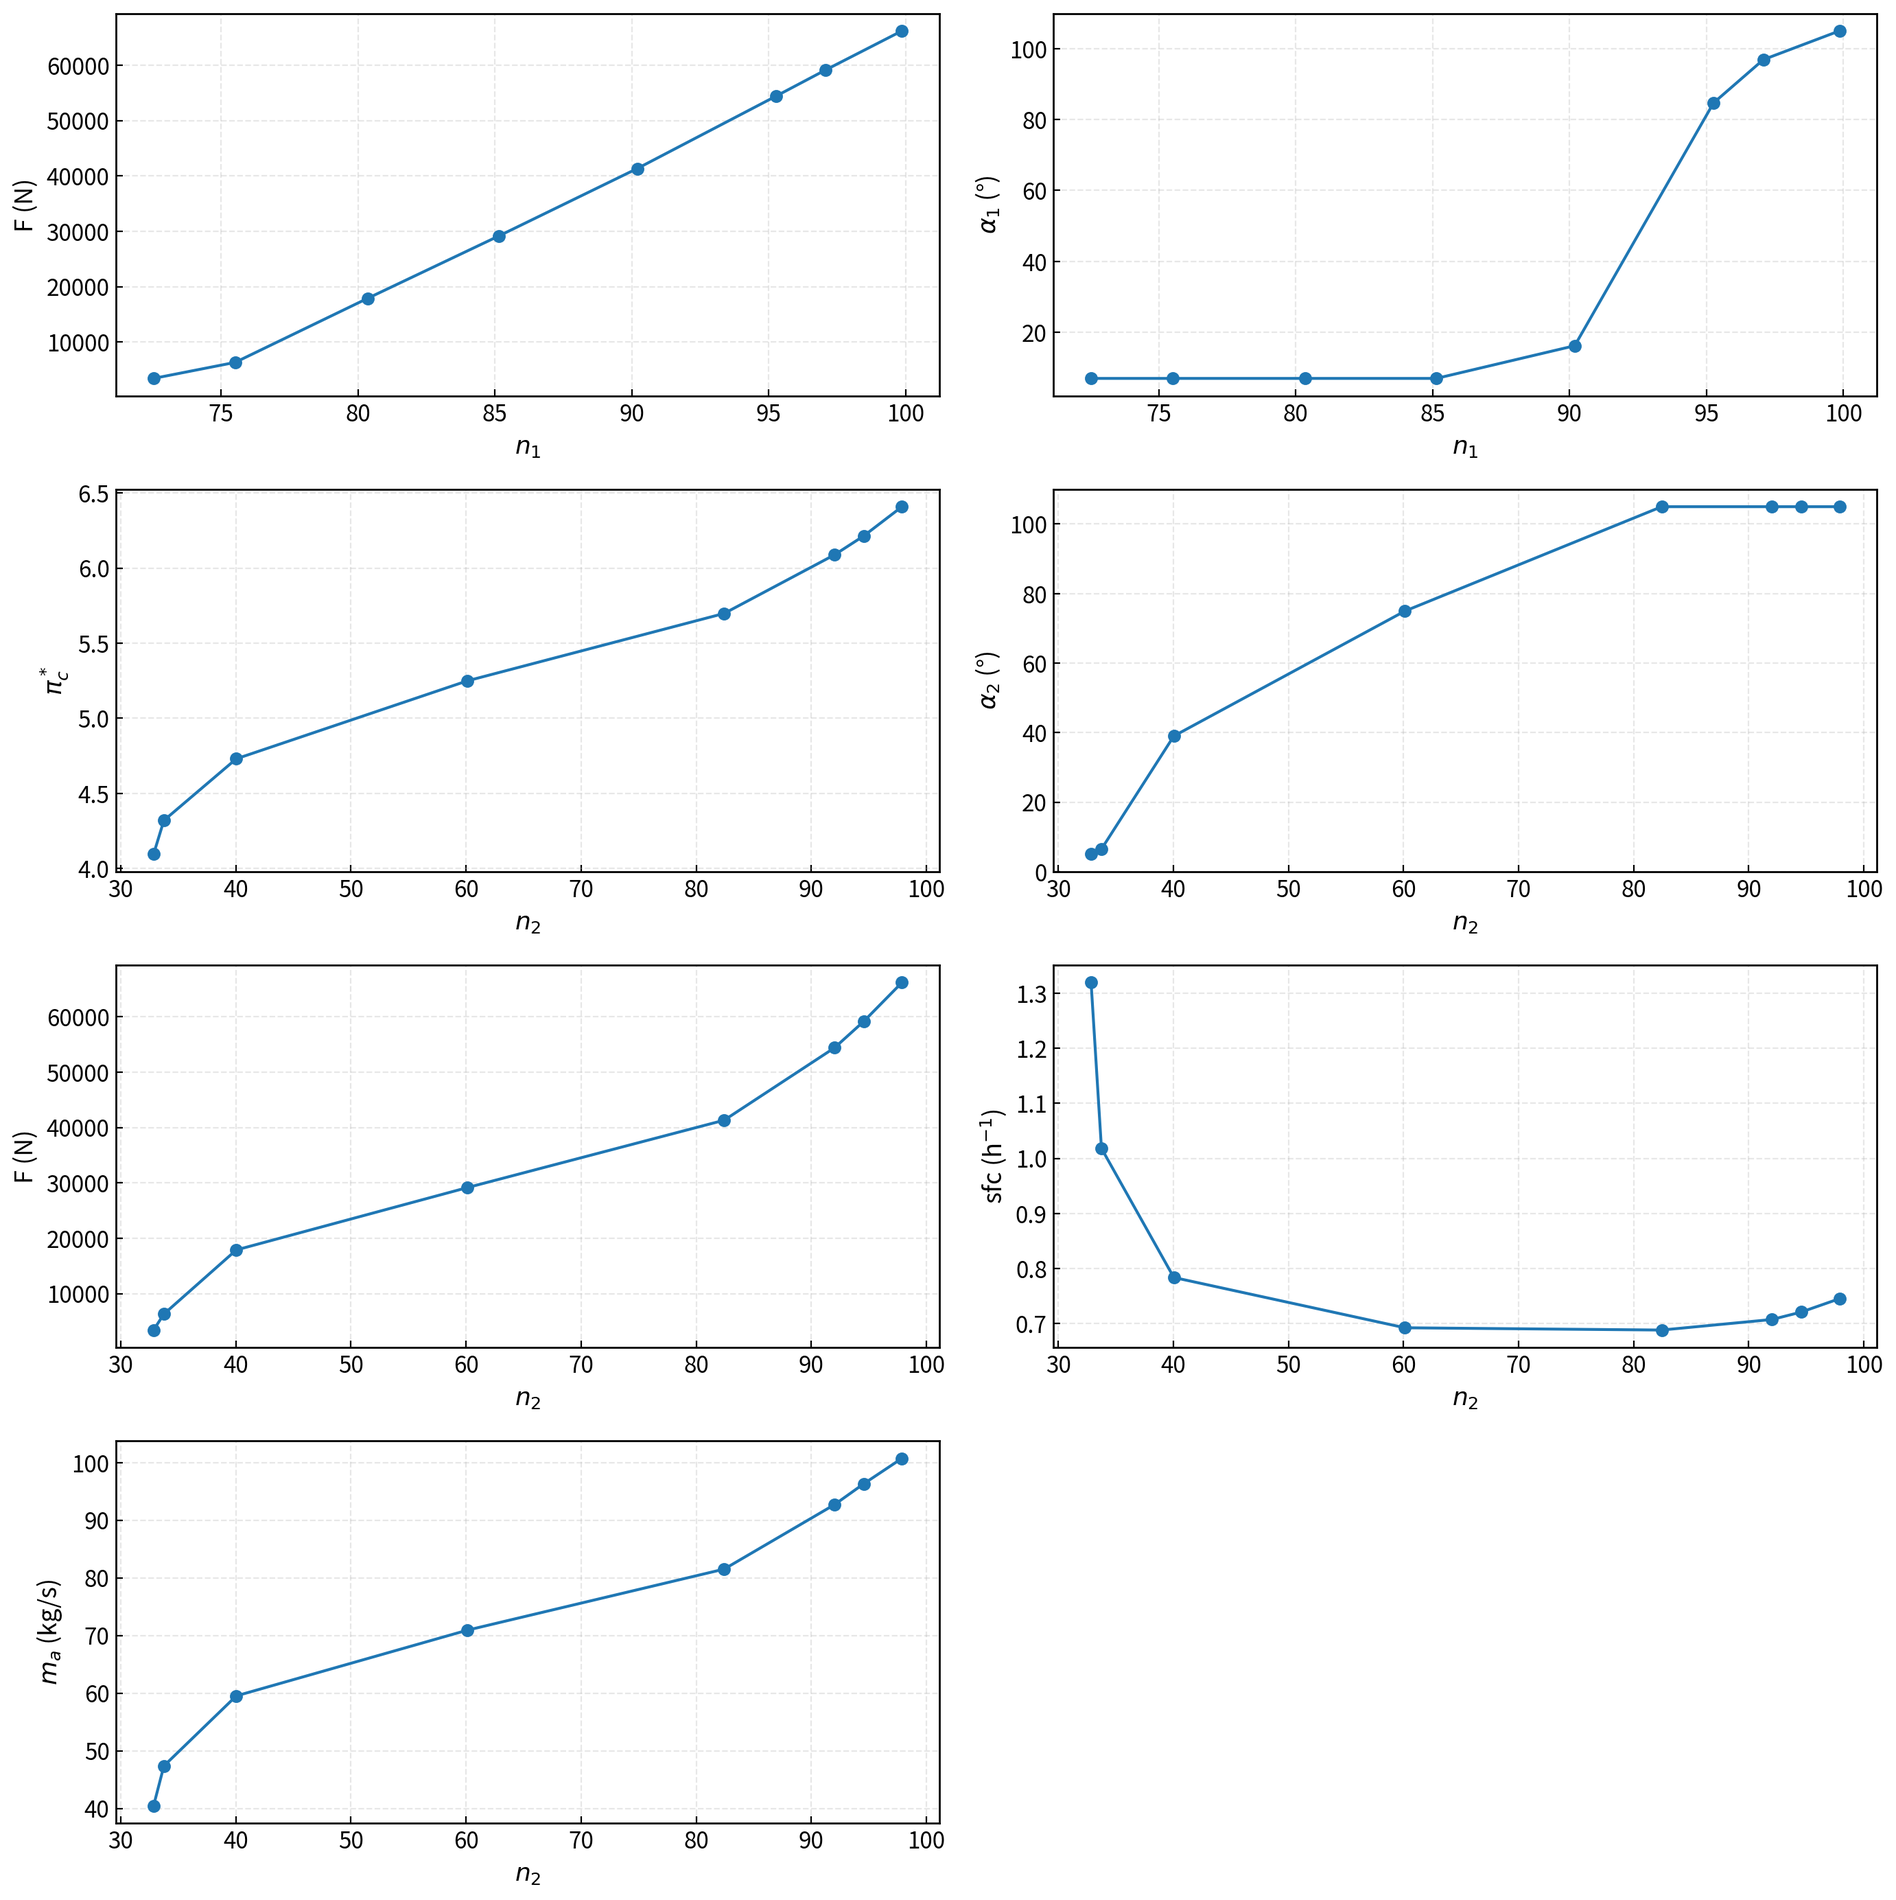
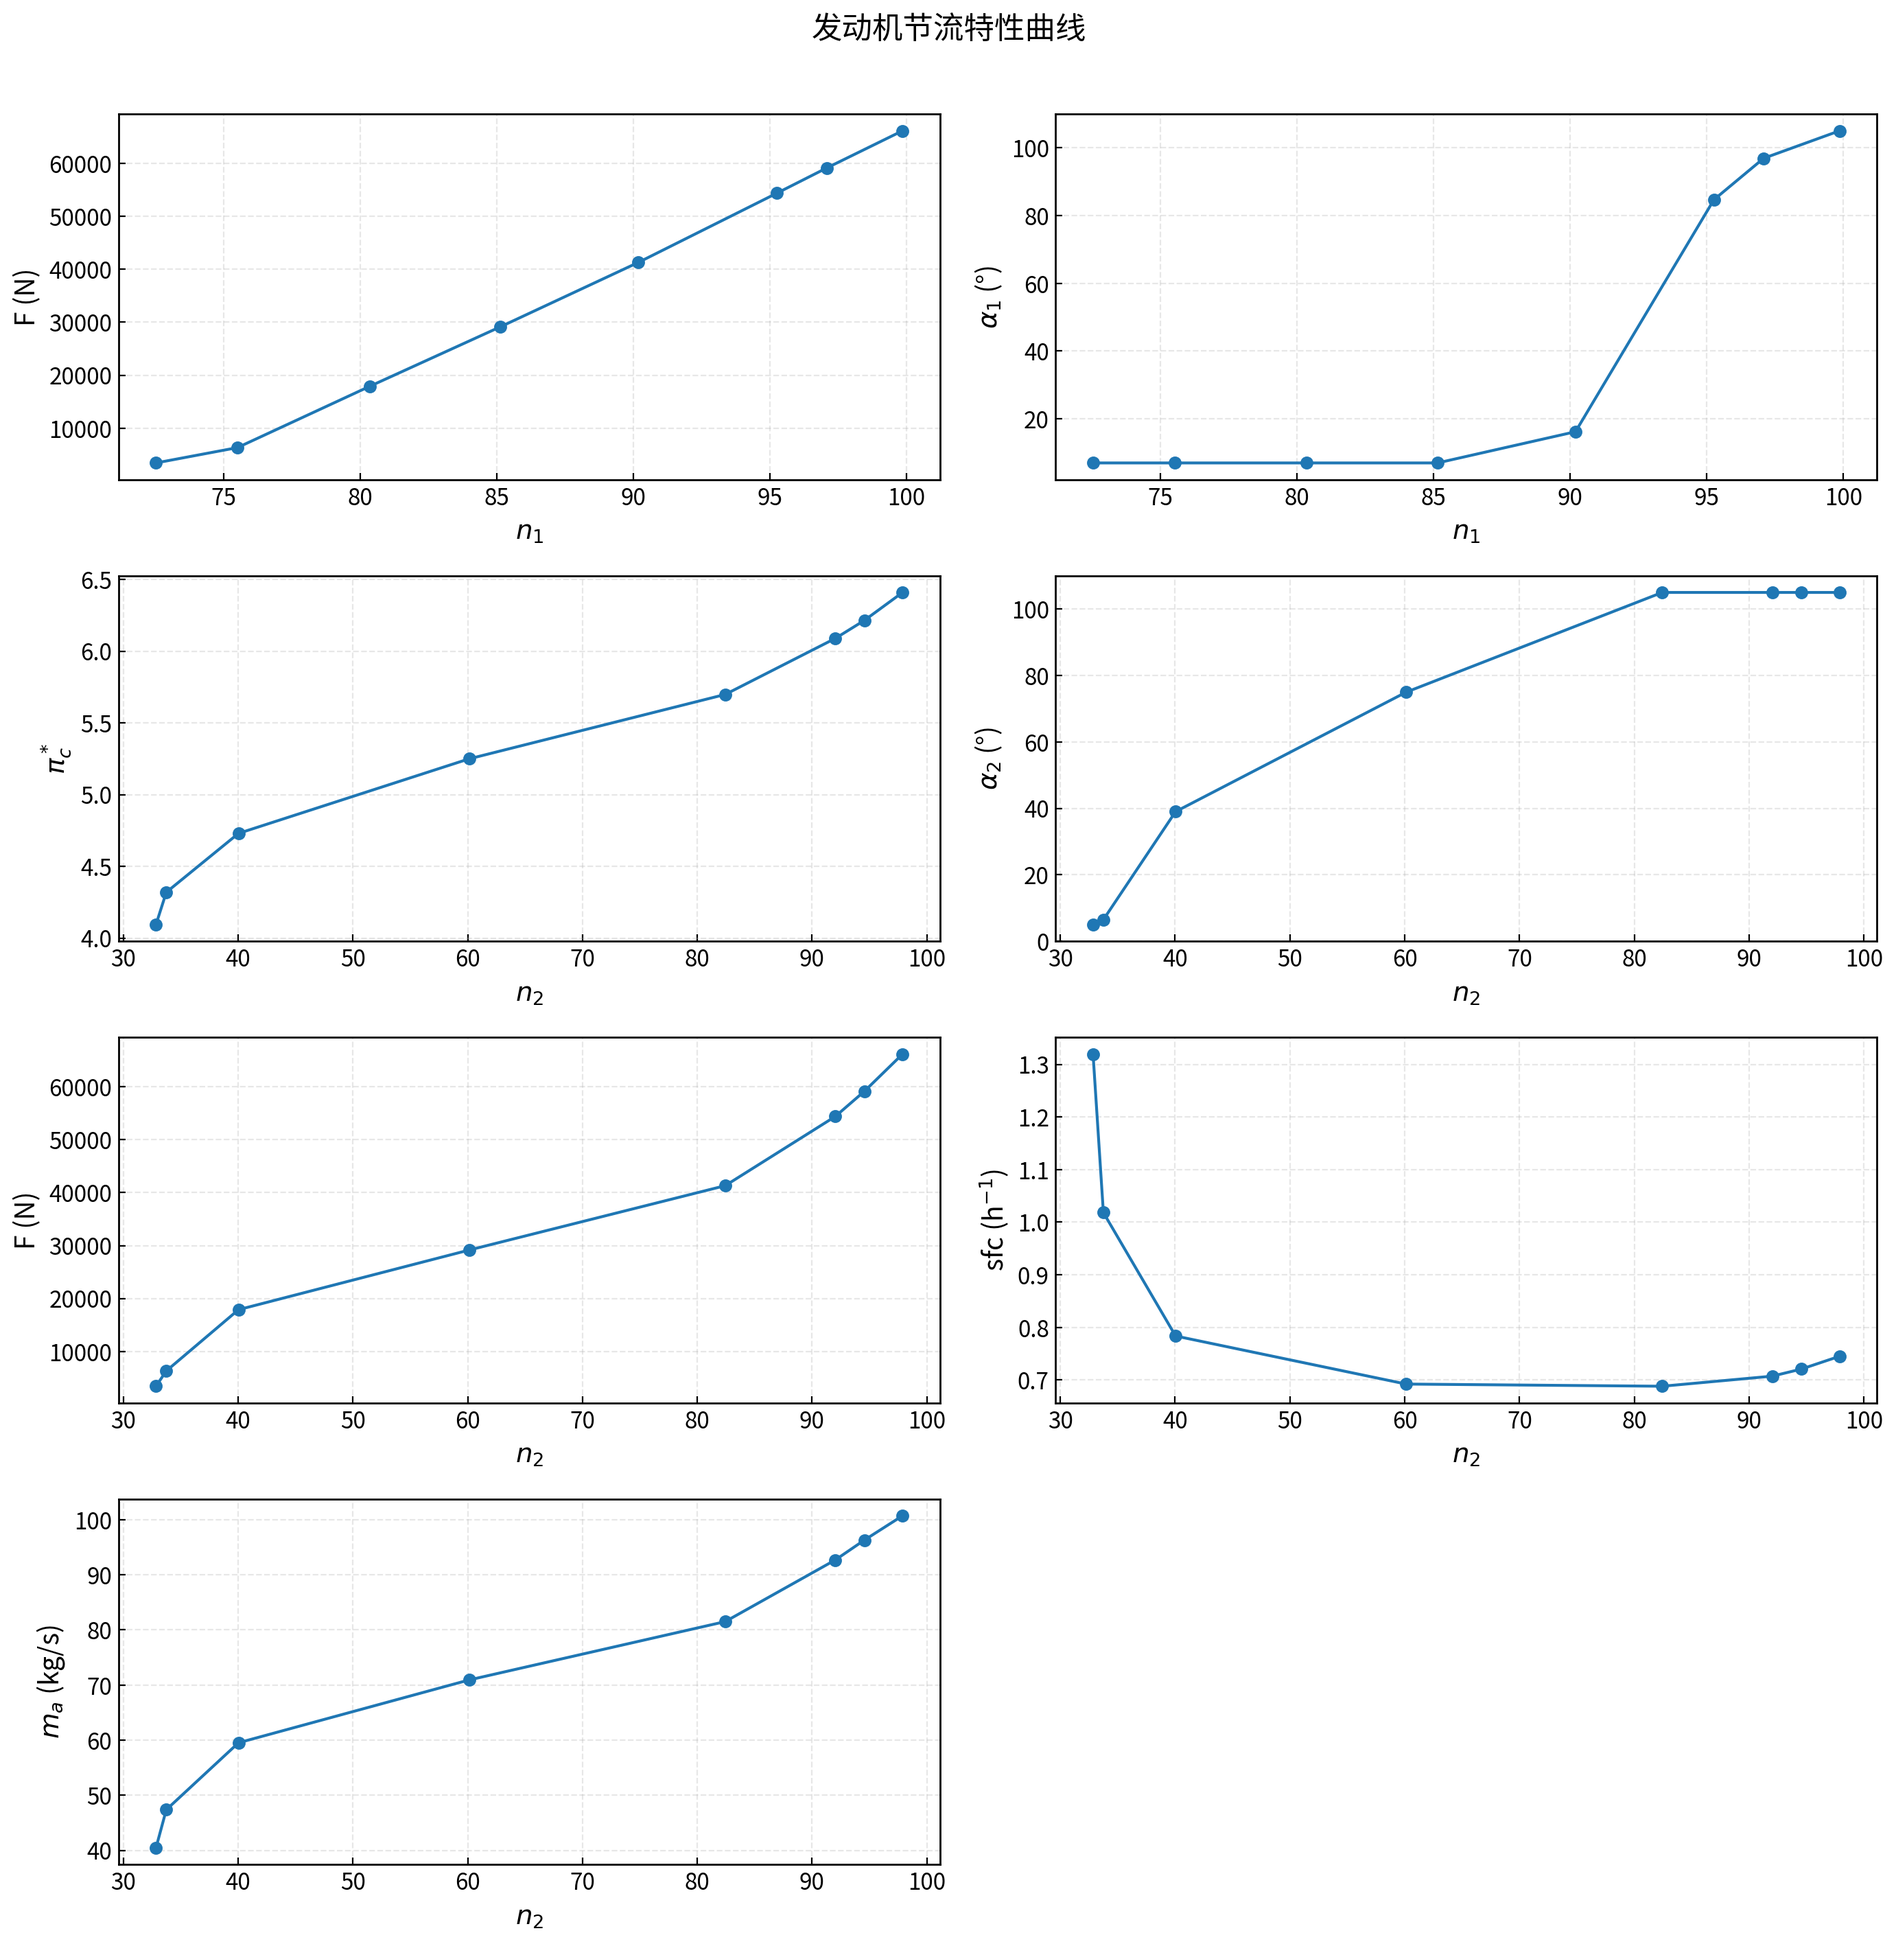
Revert "Remove suptitles, enlarge axis labels"
This reverts commit 384a6637fe8907782cef1b9a0e8b43c6221b4e70.

diff --git a/lab1/reports/tables/table_exp1_trial.tex b/lab1/reports/tables/table_exp1_trial.tex
@@ -4,23 +4,35 @@
   \label{tab:exp1_trial}
   \footnotesize
   \setlength{\tabcolsep}{3pt}
-  \begin{tabular}{cccccccccc}
-    \toprule
-    工作状态 & $n_1$ & $n_2$ & $F$(N) & $W_f$(kg/h) & $m_a$(kg/s) & $\pi_c^*$ & sfc(h$^{-1}$) & $\alpha_1$ & $\alpha_2$ \\
-    \midrule
-    慢车 & 72.5 & 32.9 & 3424 & 461 & 40.4 & 4.09 & 1.3195 & 7 & 5 \\
-    N2=75% & 75.5 & 33.8 & 6317 & 656 & 47.4 & 4.32 & 1.0183 & 7 & 6 \\
-    N2=80% & 80.3 & 40.0 & 17889 & 1429 & 59.5 & 4.73 & 0.7837 & 7 & 39 \\
-    N2=85% & 85.1 & 60.1 & 29148 & 2057 & 70.9 & 5.25 & 0.6924 & 7 & 75 \\
-    N2=90% & 90.2 & 82.4 & 41312 & 2898 & 81.5 & 5.70 & 0.6882 & 16 & 105 \\
-    N2=95% & 95.3 & 92.0 & 54391 & 3922 & 92.7 & 6.09 & 0.7074 & 85 & 105 \\
-    N2=97% & 97.1 & 94.5 & 59141 & 4346 & 96.3 & 6.21 & 0.7209 & 97 & 105 \\
-    最大 & 99.9 & 97.9 & 66177 & 5027 & 100.7 & 6.41 & 0.7452 & 105 & 105 \\
-    加力_a=0 & 83.2 & 97.9 & 79311 & 8182 & 100.8 & 6.41 & 1.0120 & 105 & 105 \\
-    加力_a=1 & 88.8 & 97.9 & 83930 & 9820 & 100.7 & 6.41 & 1.1478 & 105 & 105 \\
-    加力_a=2 & 99.6 & 97.9 & 94227 & 14103 & 100.7 & 6.41 & 1.4682 & 105 & 105 \\
-    加力_a=3 & 108.0 & 97.9 & 104091 & 18408 & 100.7 & 6.41 & 1.7349 & 105 & 105 \\
-    加力_a=4 & 114.7 & 97.9 & 113465 & 22462 & 100.7 & 6.41 & 1.9420 & 105 & 105 \\
-    \bottomrule
+  \begin{tabular}{|c|*{13}{c|}}
+    \hline
+    \diagbox[width=3.6cm, height=1.3cm]{工作状态}{\makecell{参数名称 \\ (单位)}} & $n_1$ & $P_0$ & $T_0$ & $F$ & $W_f$ & $m_a$ & $P_2^*$ & $T_2^*$ & $P_3^*$ & $T_3^*$ & $P_5^*$ & $\alpha_1$ & $\alpha_2$ \\
+    \hline
+    \makecell{慢车状态 \\ (N2=32.9\%)} & 72.5 & 94.04 & 22.91 & 349.06 & 460.6 & 40.4 & 104.58 & 27.53 & 428.18 & 259.76 & 96.07 & 7 & 5 \\
+    \hline
+    N2=75\% & 75.5 & 94.06 & 22.94 & 643.90 & 655.7 & 47.4 & 105.01 & 27.88 & 453.59 & 274.49 & 104.64 & 7 & 6 \\
+    \hline
+    N2=80\% & 80.3 & 94.12 & 22.93 & 1823.50 & 1429.1 & 59.5 & 108.00 & 30.15 & 510.83 & 314.39 & 135.96 & 7 & 39 \\
+    \hline
+    N2=85\% & 85.1 & 94.12 & 22.93 & 2971.30 & 2057.2 & 70.9 & 124.21 & 48.53 & 652.01 & 364.90 & 173.04 & 7 & 75 \\
+    \hline
+    N2=90\% & 90.2 & 94.12 & 22.94 & 4211.20 & 2898.3 & 81.5 & 207.28 & 113.83 & 1181.08 & 410.97 & 213.89 & 16 & 105 \\
+    \hline
+    N2=95\% & 95.3 & 94.03 & 22.92 & 5544.40 & 3922.2 & 92.7 & 276.07 & 152.46 & 1680.87 & 458.26 & 255.58 & 85 & 105 \\
+    \hline
+    N2=97\% & 97.1 & 94.07 & 22.92 & 6028.60 & 4345.9 & 96.3 & 295.59 & 161.12 & 1836.78 & 478.44 & 270.35 & 97 & 105 \\
+    \hline
+    \makecell{最大状态 \\ (N2=32.9\%)} & 99.9 & 94.08 & 22.92 & 6745.90 & 5027.0 & 100.7 & 317.72 & 171.34 & 2036.30 & 508.93 & 294.25 & 105 & 105 \\
+    \hline
+    \makecell{加力状态 \\ ($a_0=-1$)} & 83.2 & 94.12 & 22.91 & 8084.70 & 8182.0 & 100.8 & 317.81 & 171.30 & 2036.67 & 508.80 & 294.29 & 105 & 105 \\
+    \hline
+    \makecell{加力状态 \\ ($a_0=0$)} & 88.8 & 94.03 & 22.91 & 8555.60 & 9819.7 & 100.7 & 317.56 & 171.34 & 2035.36 & 508.96 & 294.14 & 105 & 105 \\
+    \hline
+    \makecell{加力状态 \\ ($a_0=1$)} & 99.6 & 94.07 & 22.92 & 9605.20 & 14102.6 & 100.7 & 317.72 & 171.36 & 2035.83 & 508.69 & 294.00 & 105 & 105 \\
+    \hline
+    \makecell{加力状态 \\ ($a_0=2$)} & 108.0 & 94.09 & 22.90 & 10610.70 & 18408.3 & 100.7 & 317.80 & 171.33 & 2036.39 & 508.67 & 294.10 & 105 & 105 \\
+    \hline
+    \makecell{加力状态 \\ ($a_0=3$)} & 114.7 & 94.09 & 22.95 & 11566.30 & 22461.5 & 100.7 & 317.76 & 171.39 & 2036.05 & 508.71 & 294.02 & 105 & 105 \\
+    \hline
   \end{tabular}
 \end{table}

diff --git a/lab1/reports/chapters/exp1_trial_run.tex b/lab1/reports/chapters/exp1_trial_run.tex
@@ -20,13 +20,14 @@
         \item \textbf{加力特性曲线（选做）}
         \begin{align*}
             F_{af} &= f(\text{油门杆位置}) \\
-            \text{sfc}_{af} &= f(\text{油门杆位置}) 
+            \text{sfc}_{af} &= f(\text{油门杆位置}) \\
+            A_e &= f(\text{油门杆位置})
         \end{align*}
     \end{itemize}
     \item 能力培养：实际试验操作能力、团结协作能力、综合应用能力。
 \end{enumerate}
 
-\subsection{实验设备简介}
+\subsection{实验装置}
 
 该实验装置是一套发动机模拟试车系统，根据发动机地面台架试车台的功能进行模拟仿真，试车操作界面与实际发动机试车台基本相同。系统由油门杆、控制操作面板和计算机系统组成。
 
@@ -37,17 +38,30 @@
     \item 大气参数：$P_0$（大气压力）、$T_0$（大气温度）
     \item 性能参数：$F$（推力）、$W_f$（燃油消耗量）、$m_a$（空气流量）
     \item 转子参数：$n_1$（低压转子转速）、$n_2$（高压转子转速）
-    \item 截面参数：$P_2^*$、$T_2^*$（风扇出口）、$P_3^*$、$T_3^*$（压气机出口）、$P_5^*$（涡轮后）
-    \item 控制参数：$\alpha_1$、$\alpha_2$（导流叶片角度）
+    \item 截面参数：$P_2^*$、$T_2^*$（风扇出口）、$P_3^*$、$T_3^*$（压气机出口）、$P_5^*$、$T_5^*$（涡轮后）
+    \item 控制参数：$\alpha_1$、$\alpha_2$（导流叶片角度）、$A_t$（喷口喉道面积）
 \end{itemize}
 
-\subsection{数据记录列表}
+\subsection{实验程序}
+
+\begin{enumerate}
+    \item 三到五人结为一组，明确各人的具体分工。
+    \item 试车前认真学习《实验指导书》。
+    \item 熟悉试车程序和试验设备情况。
+    \item 准备好试车参数记录所需要的纸张和笔。
+    \item 严格按要求起动发动机，并通过油门操纵杆控制发动机进入不同的工作状态。
+    \item 当发动机稳定在某一发动机状态时，按记录表记录发动机性能数据。
+    \item 试验结束前对记录数据进行检查，对没有记录或记录数据不正确的个别测量点进行补测。
+    \item 试验结束后整理好试验设备。
+\end{enumerate}
+
+\subsection{数据记录}
 
 实验数据按附表1格式记录，包含慢车状态至加力状态共13个工作状态的完整参数。
 
 \input{tables/table_exp1_trial.tex}
 
-\subsection{数据处理方法说明}
+\subsection{数据处理方法}
 
 \subsubsection{耗油率计算}
 
@@ -61,7 +75,7 @@
     \pi_c^* = \frac{P_3^*}{P_2^*}
 \end{equation}
 
-\subsection{数据处理结果（曲线）及分析}
+\subsection{数据处理结果及分析}
 
 \subsubsection{节流特性曲线}
 

diff --git a/lab1/scripts/process_exp1.py b/lab1/scripts/process_exp1.py
@@ -68,9 +68,10 @@ def plot_throttle(df):
     axes = axes.flatten()
     for ax, (col, x, yl, xl) in zip(axes, curves):
         ax.plot(x, thr[col].values, 'o-', markersize=6)
-        ax.set_xlabel(xl, fontsize=13); ax.set_ylabel(yl, fontsize=13); ax.grid(True, alpha=0.3)
+        ax.set_xlabel(xl); ax.set_ylabel(yl); ax.grid(True, alpha=0.3)
     # 隐藏第8个空子图
     axes[-1].set_visible(False)
+    fig.suptitle("发动机节流特性曲线", fontsize=16, y=1.01)
     fig.tight_layout()
     fig.savefig(os.path.join(FIG_DIR, "exp1_throttle_characteristics.png"), dpi=200)
     plt.close()
@@ -89,7 +90,8 @@ def plot_afterburner(df):
     fig, axes = plt.subplots(1, 3, figsize=(15, 4.5))
     for ax, (col, yl) in zip(axes, curves):
         ax.plot(x, af[col].values, 's-', color='#d62728', markersize=8)
-        ax.set_xlabel("油门杆位置", fontsize=13); ax.set_ylabel(yl, fontsize=13); ax.grid(True, alpha=0.3)
+        ax.set_xlabel("油门杆位置"); ax.set_ylabel(yl); ax.grid(True, alpha=0.3)
+    fig.suptitle("发动机加力特性曲线", fontsize=16, y=1.02)
     fig.tight_layout()
     fig.savefig(os.path.join(FIG_DIR, "exp1_afterburner_characteristics.png"), dpi=200)
     plt.close()

diff --git a/lab1/reports/lab1_report.tex b/lab1/reports/lab1_report.tex
@@ -10,7 +10,7 @@
 \begin{document}
 \makeCover
 \makeTOC
-    
+
 \include{chapters/exp1_trial_run}
 \include{chapters/exp2_virtual_structure}
 \include{chapters/exp3_virtual_assembly}
